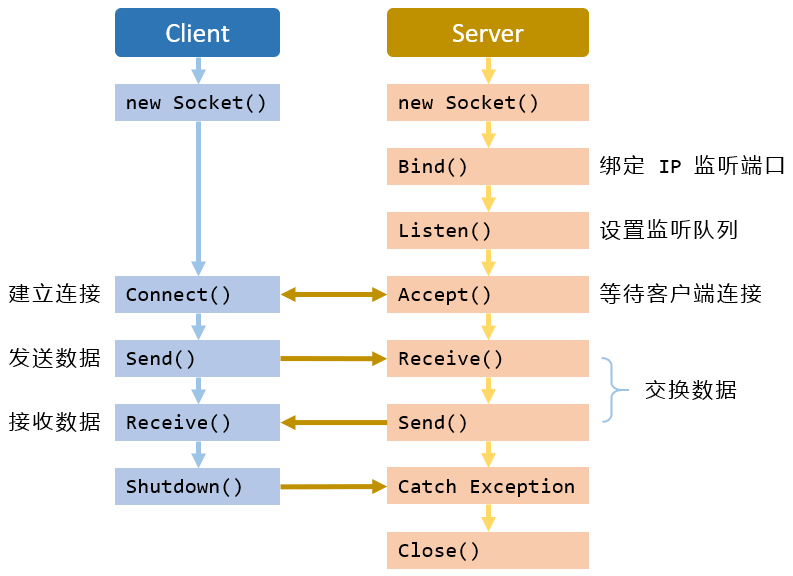
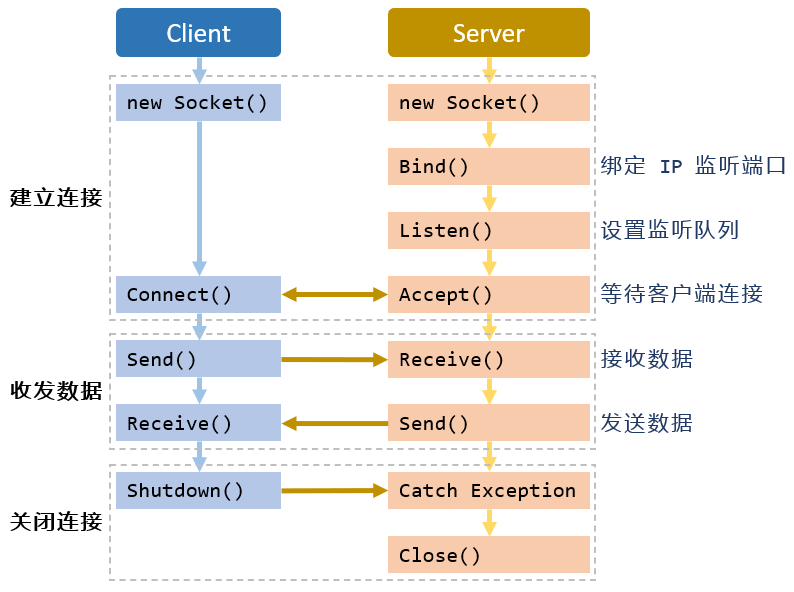
docs: 使用多线程

Changed region(s): [[0.0, 0.0312, 0.9987, 1.0], [0.1211, 0.0312, 0.3632, 0.2188], [0.0, 0.3125, 0.1513, 0.375]]

diff --git a/solutions/SocketNetworkProgramming/SocketNetworkProgramming/TcpDemoServer/Program.cs b/solutions/SocketNetworkProgramming/SocketNetworkProgramming/TcpDemoServer/Program.cs
@@ -16,7 +16,7 @@ namespace TcpDemoServer
     {
         static void Main(string[] args)
         {
-            SupportMultipleSend();
+            UseTcpWithThread();
         }
 
         /// <summary>
@@ -158,70 +158,44 @@ namespace TcpDemoServer
         /// </summary>
         static void UseTcpWithThread()
         {
-            /**
-             * 1. 新建一个服务端 Socket 对象, 用于绑定和监听客户端发起的连接.
-             * 
-             *    面向连接的 Socket 的类型为 Stream, 协议类型为 Tcp.
-             */
             Socket serverSocket = new Socket(AddressFamily.InterNetwork, SocketType.Stream, ProtocolType.Tcp);
 
-            /**
-             * 2. 新建一个 IP 终结点, 其中包含了服务端的 IP 地址和端口. 然后服务端 Socket 对象使用 `Bind` 方法绑定它.
-             * 
-             *    演示程序, 绑定本机回环地址, 并监听 50000 端口.
-             */
             serverSocket.Bind(new IPEndPoint(IPAddress.Loopback, 50000));
-
-            /**
-             * 3. 服务端 Socket 对象调用 `Listen` 方法, 服务端开启监听.
-             * 
-             *    开启监听, 指定最大连接数是 10.
-             */
             serverSocket.Listen(10);
-
-            Console.WriteLine("开启监听, 等待客户端连接.");
 
             while (true)
             {
-                /**
-                 *   4. 服务端 Socket 对象调用 `Accept` 方法, 等待客户端的连接. 此时, 将一直处于阻塞状态, 直到有新的客户端连接.
-                 *   5. 一旦有客户端连接到服务端, `Accept` 方法将创建一个新的 Socket 对象, 它包含了服务端/客户端的信息和协议.
-                 *   
-                 *      等待客户端连接.
-                 */
+                Console.WriteLine("等待客户端连接...");
+
                 Socket clientSocket = serverSocket.Accept();
 
                 Console.WriteLine($"收到客户端 {clientSocket.RemoteEndPoint} 连接.");
 
+                string message = "来自服务端消息: hello";
+                clientSocket.Send(Encoding.UTF8.GetBytes(message));
+
+                // 新增多线程支持. 将收发数据的工作转移到新的线程中运行.
                 Task.Run(() =>
                 {
-                    /**
-                     * 6. 使用 `Accept` 方法新建的 Socket 对象调用 `Receive` 或 `Send` 方法和客户端通信.
-                     * 
-                     *    发送数据.
-                     */
-                    string message = "来自服务端消息: hello";
-                    clientSocket.Send(Encoding.UTF8.GetBytes(message));
+                    while (true)
+                    {
+                        byte[] data = new byte[1024];
 
-                    Console.WriteLine($"发送消息到客户端: {message}");
+                        var length = clientSocket.Receive(data);
+                        var result = Encoding.UTF8.GetString(data, 0, length);
 
-                    /**
-                     *    接收数据.
-                     */
-                    byte[] data = new byte[1024];
-                    clientSocket.Receive(data);
+                        Console.WriteLine($"接收到客户端消息: {result}");
 
-                    Console.WriteLine($"接收到客户端消息: {Encoding.UTF8.GetString(data)}");
+                        if (string.IsNullOrEmpty(result))
+                        {
+                            clientSocket.Shutdown(SocketShutdown.Both);
+                            clientSocket.Close();
 
-                    /**
-                     * 使用结束之后断开连接, 并释放 Socket.
-                     */
-                    clientSocket.Shutdown(SocketShutdown.Both);
-                    clientSocket.Close();
+                            break;
+                        }
+                    }
                 });
             }
-
-            // Console.ReadKey();
         }
     }
 }

diff --git a/blogs/dotnet-core-socket-network-programming-04-tcp-first-glance.md b/blogs/dotnet-core-socket-network-programming-04-tcp-first-glance.md
@@ -4,34 +4,43 @@ TCP (传输控制协议) 是基于建立连接的 Socket 而进行通信. 在本
 
 ![Socket 通信步骤](./images/dotnet-core-socket-networking-programming/04-tcp-first-glance/socket-step.png)
 
-客户端和服务端两边的步骤有所差异, 根据面向连接的 Socket 通信流程图, 总结基本步骤如下:
+客户端和服务端两边的步骤有所差异, 根据面向连接的 Socket 通信流程图, 总结编程基本步骤如下:
 
 - 服务端:
   
-  1. 创建服务端 Socket 对象.
-  2. 绑定 IP 终结点.
-  3. 开启监听.
-  4. 等待客户端连接.
-  5. 接收客户端连接.
-  6. 收发数据.
-  7. 释放连接.
+  1. **创建服务端 Socket 对象**. 新建一个服务端 Socket 对象, 用于绑定和监听客户端发起的连接.
+  2. **绑定 IP 终结点**. 新建一个 IP 终结点, 其中包含了服务端的 IP 地址和端口. 然后服务端 Socket 对象使用 `Bind` 方法绑定它.
+  3. **开启监听**. 服务端 Socket 对象调用 `Listen` 方法, 服务端开启监听.
+  4. **等待客户端连接**. 服务端 Socket 对象调用 `Accept` 方法, 等待客户端的连接. 此时, 将一直处于阻塞状态, 直到有新的客户端连接.
+  5. **接收客户端连接**. 一旦有客户端连接到服务端, `Accept` 方法将创建一个新的 Socket 对象, 它包含了服务端/客户端的信息和协议.
+  6. **收发数据**. 使用 `Accept` 方法新建的 Socket 对象调用 `Receive` 或 `Send` 方法和客户端通信.
+  7. **释放连接**. 使用结束之后断开连接, 并释放 Socket.
 
 - 客户端:
 
-  1. 创建客户端 Socket 对象.
-  2. 连接服务端终结点.
-  3. 收发数据.
-  4. 释放连接.
+  1. **创建客户端 Socket 对象**. 新建一个客户端 Socket 对象, 用于连接服务端.
+  2. **连接服务端终结点**. 使用 `Connect` 方法连接服务端的 IP 终结点.
+  3. **收发数据**. 调用 `Receive` 或 `Send` 方法和服务端进行通信.
+  4. **释放连接**. 使用结束之后断开连接, 并释放 Socket.
+
+根据服务端与客户端的编程步骤, 连接过程可分为三个阶段: **建立连接**; **收发数据**; **关闭连接**.
+
+1. 建立连接
+
+    服务端与客户端通信之前, 双方必须建立连接. 即, 服务端首先要在特定端口侦听是否有客户端请求连接, 当客户端向服务端发起的连接请求被接收后, 双方才建立连接.
+
+2. 收发数据
+
+    一旦客户端与服务端建立好连接之后, 客户端与服务端均可使用 `Receive` 或 `Send` 方法进行通信.
+
+    - 客户端使用 `Receive` 方法接收服务端使用 `Send` 方法发送的数据.
+    - 客户端使用 `Send` 方法向服务端发送数据, 被服务端用 `Receive` 方法接收.
+
+3. 关闭连接
+
+    通信完成之后, 先调用 `Shutdown` 方法将停止通信, 然后使用 `Close` 方法释放 Socket 对象.
 
 ## 服务端实现
-
-  1. 新建一个服务端 Socket 对象, 用于绑定和监听客户端发起的连接.
-  2. 新建一个 IP 终结点, 其中包含了服务端的 IP 地址和端口. 然后服务端 Socket 对象使用 `Bind` 方法绑定它.
-  3. 服务端 Socket 对象调用 `Listen` 方法, 服务端开启监听.
-  4. 服务端 Socket 对象调用 `Accept` 方法, 等待客户端的连接. 此时, 将一直处于阻塞状态, 直到有新的客户端连接.
-  5. 一旦有客户端连接到服务端, `Accept` 方法将创建一个新的 Socket 对象, 它包含了服务端/客户端的信息和协议.
-  6. 使用 `Accept` 方法新建的 Socket 对象调用 `Receive` 或 `Send` 方法和客户端通信.
-  7. 使用结束之后断开连接, 并释放 Socket.
 
 实现代码:
 
@@ -93,11 +102,6 @@ static void Main(string[] args)
 *注: 限篇幅, 文中所示代码均已去掉额外代码, 仅含核心代码, 完整代码参见文章相对应的项目.*
 
 ## 客户端实现
-
-  1. 新建一个客户端 Socket 对象, 用于连接服务端.
-  2. 使用 `Connect` 方法连接服务端的 IP 终结点.
-  3. 调用 `Receive` 或 `Send` 方法和服务端进行通信.
-  4. 使用结束之后断开连接, 并释放 Socket.
 
 实现代码:
 
@@ -248,7 +252,57 @@ static void Main(string[] args)
 
 ## 使用多线程
 
-至此, 通过上面的步骤, 得到了一个运行良好的面向连接的网络通信程序. 然而, 在实际的应用场景中服务端会接收到大量的请求, 常常是多个客户端同时请求连接服务端, 但上述服务端的代码即使经过改良, 亦是同时仅仅支持只有一个客户端的连接, 此时可借助多线程技术再次改良上述服务端代码, 以实现同时与多个客户端通信.
+至此, 通过上面的步骤, 得到了一个运行良好的面向连接的网络通信程序. 然而, 在实际的应用场景中服务端会接收到大量的请求, 常常是多个客户端同时请求连接服务端, 但上述服务端的代码即使经过改良, 亦是仅仅支持同时只有一个客户端的连接. 当服务端已经接受一个客户端连接之后, 后续试图连接服务端的客户端需要等待之前已经连接上服务端的客户端断开之后才能被服务端所接受. 也就是说, 如果服务端已经被一个客户端占用, 那么另外一个客户端想要连接的话就要等服务端空闲.
+
+通过阅读代码, 可以知道是因为服务端在收发数据的时候, 耽误了 `Accept` 方法去响应新收到的客户端连接.
+
+![单线程模式](images/dotnet-core-socket-networking-programming/04-tcp-first-glance/single-thread-to-accept.png)
+
+此时可借助多线程技术再次改良上述服务端代码, 让比较消耗时间的与客户端进行收发数据的工作在另外一个线程执行, 负责接收客户端连接的线程及时折返回去等待响应新的客户端连接, 以实现同时与多个客户端通信.
+
+![多线程模式](images/dotnet-core-socket-networking-programming/04-tcp-first-glance/multi-thread-to-accept.png)
+
+保持客户端的代码不变, 调整服务端的代码, 新增多线程支持即可.
+
+```cs
+static void Main(string[] args)
+{
+    Socket serverSocket = new Socket(AddressFamily.InterNetwork, SocketType.Stream, ProtocolType.Tcp);
+
+    serverSocket.Bind(new IPEndPoint(IPAddress.Loopback, 50000));
+    serverSocket.Listen(10);
+
+    while (true)
+    {
+        Socket clientSocket = serverSocket.Accept();
+
+        string message = "来自服务端消息: hello";
+        clientSocket.Send(Encoding.UTF8.GetBytes(message));
+
+        // 新增多线程支持. 将收发数据的工作转移到新的线程中运行.
+        Task.Run(() =>
+        {
+            while (true)
+            {
+                byte[] data = new byte[1024];
+
+                var length = clientSocket.Receive(data);
+                var result = Encoding.UTF8.GetString(data, 0, length);
+
+                if (string.IsNullOrEmpty(result))
+                {
+                    clientSocket.Shutdown(SocketShutdown.Both);
+                    clientSocket.Close();
+
+                    break;
+                }
+            }
+        });
+    }
+}
+```
+
+使用 Task 将收发数据的工作转移到新的线程中运行, 这样服务端的 Socket 就能及时响应客户端的连接请求了.
 
 ## 如果双方的缓冲区大小不匹配
 
